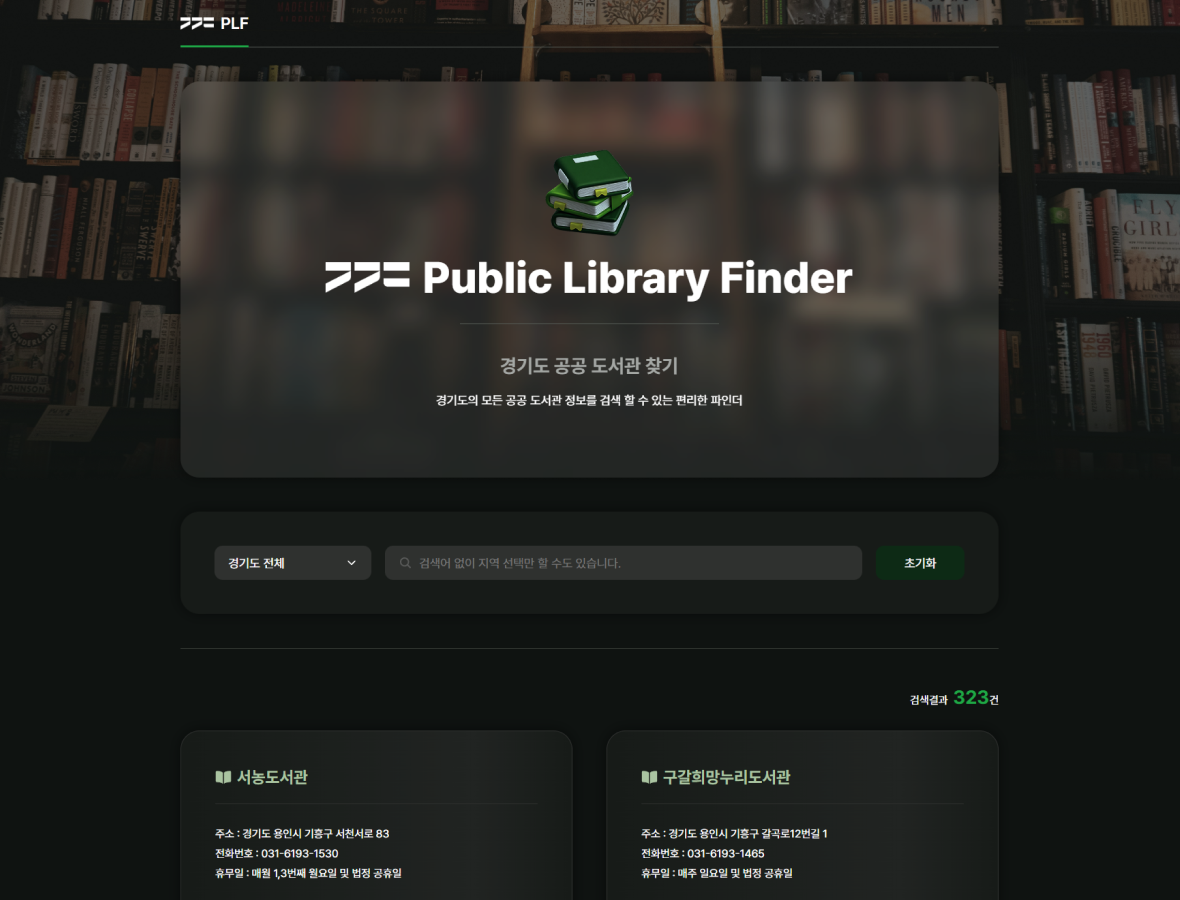
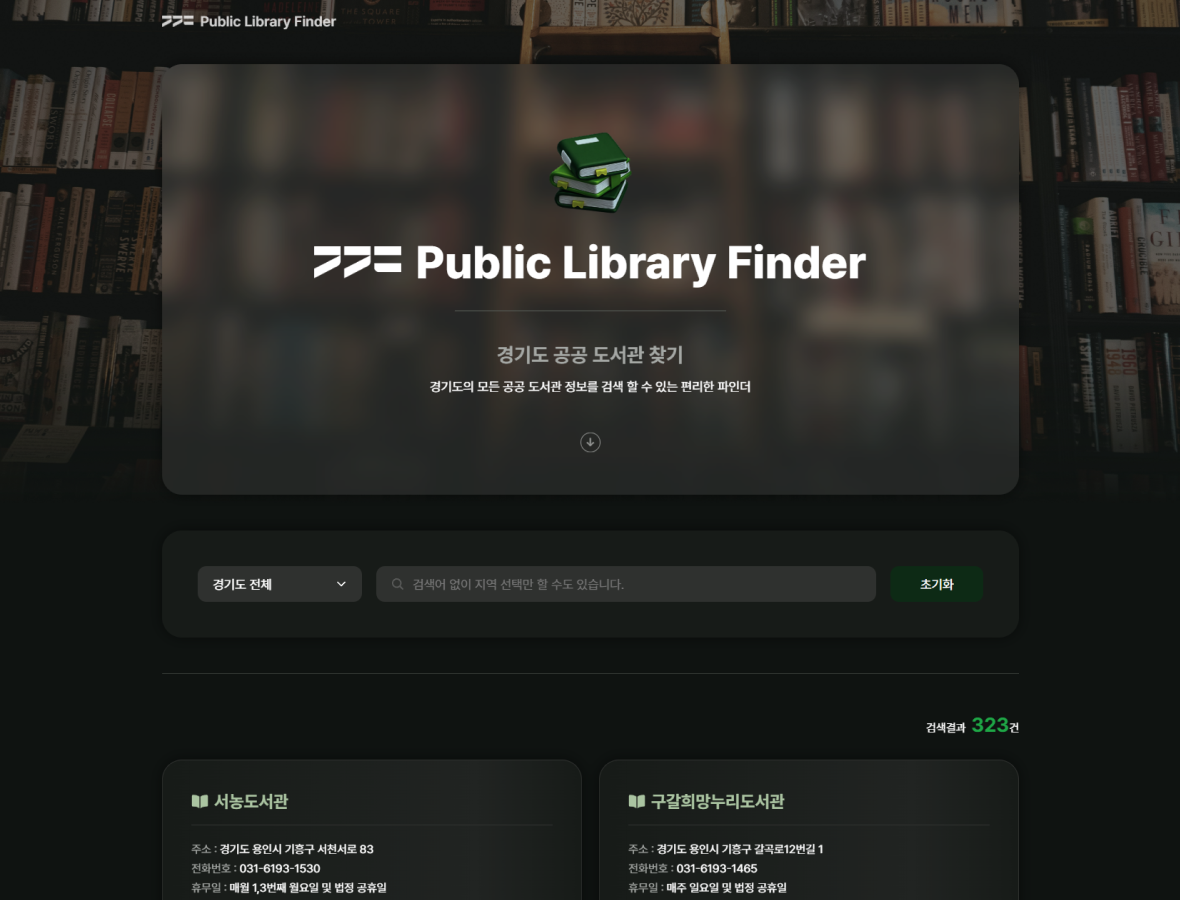
worksData 수정

diff --git a/src/assets/data/worksData.js b/src/assets/data/worksData.js
@@ -12,7 +12,7 @@ export const worksData = [
         desc: '서울 열린데이터 광장의 문화행사 REST API를 활용해 공연·전시·축제 정보를 탐색할 수 있는 웹 애플리케이션을 구현했습니다. TanStack Query를 사용해 데이터를 효율적으로 가져오고 캐싱했으며, 구/분류/요금 조건 필터와 키워드 검색, 정렬 기능을 결합해 다양한 방식으로 문화행사를 탐색할 수 있도록 설계했습니다. 검색어 입력 시 debounce를 적용해 불필요한 요청을 줄였고, 검색 결과에서 입력한 키워드를 하이라이트해 가독성을 높였습니다. 또한 Zustand 기반 즐겨찾기 상태 관리와 모달 상세보기, 카카오 지도 연동을 통해 실제 서비스에 가까운 사용자 경험을 구현했으며, GSAP을 활용해 카드 hover 인터랙션과 모달 전환 애니메이션을 적용해 UI 몰입도를 높였습니다.',
         details: {
             structure:
-                '히어로, 검색창, 조건 필터, 카드 그리드, 페이지네이션, 상세 모달로 구성된 원페이지',
+                '히어로, 검색창, 조건 필터, 카드 그리드, 페이지네이션, 상세 모달, 지도로 구성된 원페이지',
             ratio: '디자인 100%, 코딩 100%',
         },
         tags: [
@@ -46,7 +46,7 @@ export const worksData = [
         desc: 'Axios를 활용해 공공데이터 REST API를 호출하여 인천광역시 구/군별 약국 정보를 조회하는 웹 애플리케이션을 구현했습니다. 영업 시간 데이터를 기반으로 영업중, 곧 영업종료, 영업종료 상태를 실시간 계산해 UI에 반영했으며, 상태 필터와 더보기 페이지네이션을 통해 대용량 데이터를 효율적으로 탐색할 수 있도록 설계했습니다. 지도 검색은 주소와 약국명을 결합해 검색 정확도를 개선했으며, 영업 종료 시 전화 버튼 비활성화 등 상태 기반 UX를 적용해 실제 서비스에 가까운 사용자 경험을 구현했습니다. 또한 GSAP을 활용해 상태 요약 카운팅 애니메이션과 필터 슬라이딩 인터랙션 등을 구현하여 사용자 인터랙션의 몰입도를 높였습니다.',
         details: {
             structure:
-                '히어로, 지역 선택, 상태 필터, 약국 리스트, 더보기 버튼으로 구성된 원페이지',
+                '히어로, 지역 선택, 상태 필터, 약국 리스트/카드 더보기 버튼등으로 구성된 원페이지',
             ratio: '디자인 100%, 코딩 100%',
         },
         tags: [
@@ -75,9 +75,10 @@ export const worksData = [
         skill1: 'Design',
         skill2: 'React',
         type: 'personal',
-        desc: '공공데이터 REST API를 활용해 경기도 공공 도서관 정보를 조회하는 웹 애플리케이션을 구현했습니다. fetch를 사용해 데이터를 비동기로 가져오고, API 응답 데이터를 원본 상태로 유지한 뒤 지역 필터링, 검색, 정렬, 더보기 페이지네이션을 파생 상태로 분리해 처리했습니다. 검색 입력에는 debounce를 적용해 불필요한 연산을 줄였고, API 키를 환경변수로 관리해 보안을 고려했습니다. 데이터 흐름과 상태 분리를 중심으로 구조를 설계해 외부 API를 안정적으로 활용할 수 있도록 구현했습니다.',
+        desc: '공공데이터 REST API를 활용해 경기도 공공 도서관 정보를 조회하는 웹 애플리케이션을 구현했습니다. fetch를 사용해 데이터를 비동기로 가져오고, API 응답 데이터를 원본 상태로 유지한 뒤 지역 필터링, 검색, 정렬, 더보기 페이지네이션을 파생 상태로 분리해 처리했습니다. 검색 입력에는 debounce를 적용해 불필요한 연산을 줄였고, API 키를 환경변수로 관리해 보안을 고려했습니다. 또한 GSAP을 활용해 리스트 및 UI 요소에 자연스러운 등장 애니메이션을 적용해 사용자 경험을 개선했습니다.',
         details: {
-            structure: '히어로, 검색창, 도서관 리스트 등으로 구성된 원페이지',
+            structure:
+                '히어로, 검색/필터창, 도서관 리스트/카드, 더보기 버튼 등으로 구성된 원페이지',
             ratio: '디자인 100%, 코딩 100%',
         },
         tags: [
@@ -86,6 +87,7 @@ export const worksData = [
             'JavaScript',
             'Public REST API',
             'SCSS',
+            'GSAP',
             'Vercel',
         ],
         links: {
